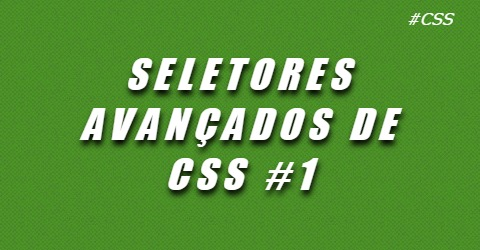
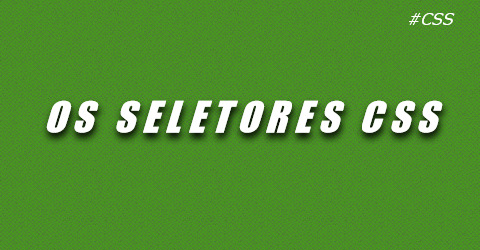
Alterações primeiro post Seletores CSS

Changed region(s): [[0.0938, 0.224, 0.9375, 0.812], [0.8438, 0.028, 0.9688, 0.112]]

diff --git a/_posts/2017-01-24-seletores-avancados-de-css.md b/_posts/2017-01-24-seletores-avancados-de-css.md
@@ -1,6 +1,6 @@
 ---
 layout: post
-title: "Seletores avançados de CSS #1"
+title: "Os seletores CSS"
 image: "/assets/seletores-avancados-de-css/cover.jpg"
 date:   2017-01-24 08:00:00 -0200
 color_template: "css"
